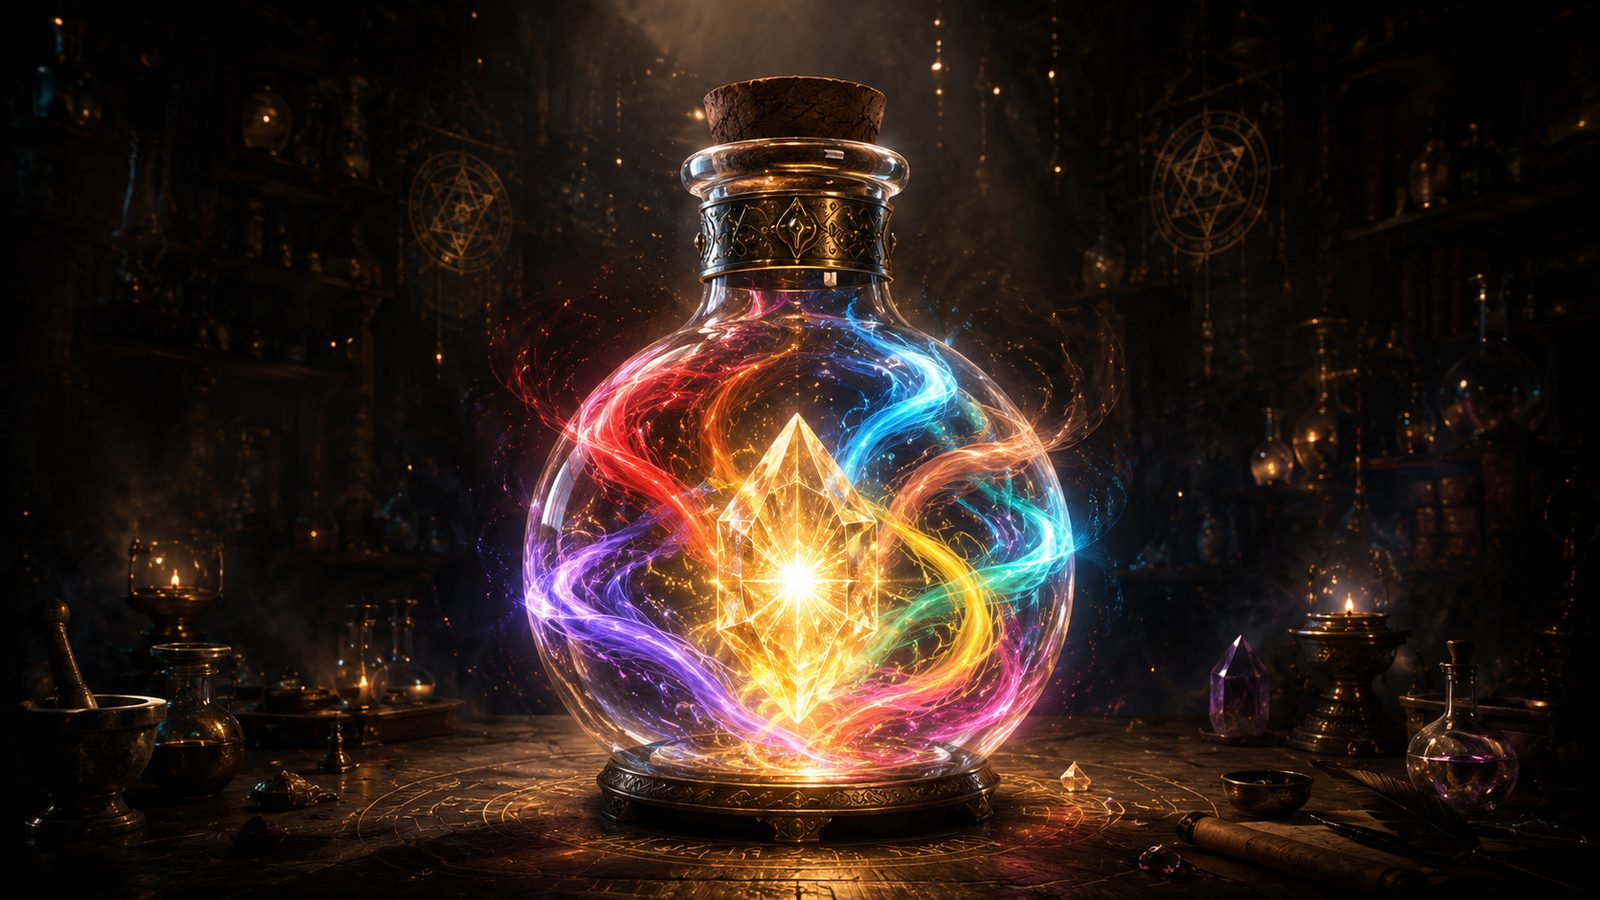
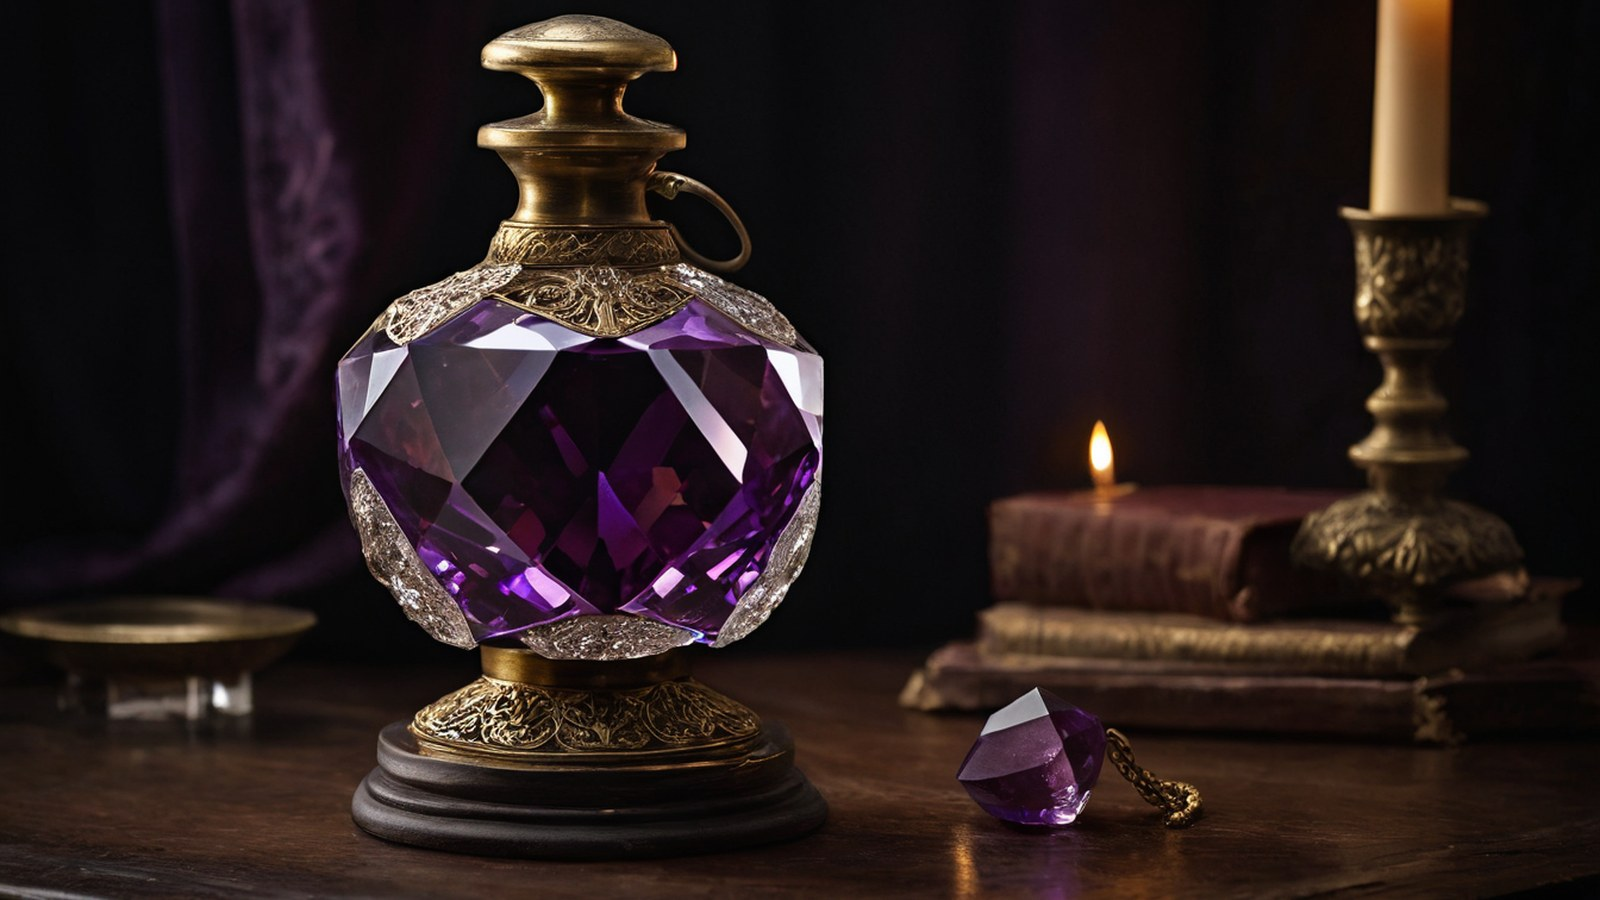
feat(hero)+fix(slop): on-brand hero render + D9/Hallmark de-slop pass
Hero: replace the generic rainbow-potion (AI-slop, off-palette, was the
og:image) with a locally-rendered on-brand hero — faceted amethyst
philosopher's-stone in an aged-brass alchemist flask, gold+violet on dark lab,
no rainbow. RealVisXL V5 on the RX 9070 XT; matches the icon direction + app menu.

De-slop fixes (from /site-review D9 + a hallmark-rubric audit):
- eyebrow-on-every-section tic → keep 2 (about, promise), drop 4
- bias the features section left (break "centred everything")
- vary section vertical rhythm (#features roomier, #elements tighter)
- language-switcher tap targets → 24px min (WCAG 2.5.8 AA; was auto/~sub-24)
- straight → curly apostrophes in EN copy (7)

diff --git a/index.html b/index.html
@@ -59,22 +59,21 @@
     <div class="inner center">
       <p class="eyebrow">What is Elixa</p>
       <h2 class="title">Sort the elements. Find some quiet.</h2>
-      <p class="lead prose" style="margin:0 auto">Tap a tube, tap another, and the top ores pour across — stacking colour on colour until every tube holds one clean element. No timers. No lives. No energy that runs out. Just you, the ores, and as many unhurried minutes as you'd like.</p>
+      <p class="lead prose" style="margin:0 auto">Tap a tube, tap another, and the top ores pour across — stacking colour on colour until every tube holds one clean element. No timers. No lives. No energy that runs out. Just you, the ores, and as many unhurried minutes as you’d like.</p>
     </div>
   </section>
 
   <section class="section" id="features" style="background:var(--bg1)">
     <div class="inner">
-      <p class="eyebrow center">What makes it different</p>
-      <h2 class="title center">Built for calm, not for clicks</h2>
+      <h2 class="title">Built for calm, not for clicks</h2>
       <div class="grid grid-3" style="margin-top:var(--s7)">
         <div class="card">
           <h3>The theme is the logic</h3>
-          <p>Alchemy isn't a coat of paint. The seven elements are the colours you sort, transmutation is a real move, and the four chapters are your arc — the story and the rules are the same thing.</p>
+          <p>Alchemy isn’t a coat of paint. The seven elements are the colours you sort, transmutation is a real move, and the four chapters are your arc — the story and the rules are the same thing.</p>
         </div>
         <div class="card">
-          <h3>Transmute, don't just sort</h3>
-          <p>A prima-materia wildcard ore pours into any tube, then permanently <strong>transmutes</strong> into a true element the moment it settles. A move the sort genre simply doesn't have.</p>
+          <h3>Transmute, don’t just sort</h3>
+          <p>A prima-materia wildcard ore pours into any tube, then permanently <strong>transmutes</strong> into a true element the moment it settles. A move the sort genre simply doesn’t have.</p>
         </div>
         <div class="card">
           <h3>Made to be felt</h3>
@@ -90,7 +89,7 @@
         </div>
         <div class="card">
           <h3>Mastery, not just completion</h3>
-          <p>Stars are graded against the solver's own optimal solution — and clearing a board with no hints or undo earns a <strong>Flawless</strong>. Every level is solver-verified, so the challenge is real, never random.</p>
+          <p>Stars are graded against the solver’s own optimal solution — and clearing a board with no hints or undo earns a <strong>Flawless</strong>. Every level is solver-verified, so the challenge is real, never random.</p>
         </div>
       </div>
     </div>
@@ -98,7 +97,6 @@
 
   <section class="section" id="elements">
     <div class="inner">
-      <p class="eyebrow center">The seven elements</p>
       <h2 class="title center">Seven ores, each with its own glow</h2>
       <div class="elements" style="margin-top:var(--s7)">
         <div class="el" style="--c:var(--fire)"><img src="/assets/img/ore/fire.png" alt="" width="72" height="72" loading="lazy"><div class="name">Fire</div></div>
@@ -114,7 +112,6 @@
 
   <section class="section" id="gallery">
     <div class="inner center">
-      <p class="eyebrow">A look inside the lab</p>
       <h2 class="title">See it in play</h2>
       <div class="gallery" style="margin-top:var(--s7)">
         <figure class="phone" style="margin:0"><img src="/assets/img/shots/menu.jpg" alt="Enter the lab — pour, sort, transmute" width="646" height="1400" loading="lazy"><figcaption class="cap">Enter the lab — pour, sort, transmute</figcaption></figure>
@@ -128,7 +125,7 @@
     <div class="inner center">
       <p class="eyebrow">Our promise</p>
       <h2 class="title">Pay once. Play all you want.</h2>
-      <p class="lead prose" style="margin:0 auto">One fair unlock opens the whole collection and removes the ads — buy it once and it's yours. No interruptions, no waiting, no catch.</p>
+      <p class="lead prose" style="margin:0 auto">One fair unlock opens the whole collection and removes the ads — buy it once and it’s yours. No interruptions, no waiting, no catch.</p>
       <ul class="promise-list prose" style="margin-left:auto;margin-right:auto">
         <li>No ads in the middle of a puzzle</li>
         <li>No subscription</li>
@@ -140,7 +137,6 @@
 
   <section class="section" id="coming-soon">
     <div class="inner center">
-      <p class="eyebrow">Upcoming</p>
       <h2 class="title">In the lab now — coming soon</h2>
       <p class="lead prose" style="margin:0 auto">Elixa is in closed testing, being tuned toward a release on the App Store and Google Play. Want an early look or to help test? <a href="mailto:mateusl.amaral@gmail.com?subject=Elixa%20beta">Get in touch</a>.</p>
       <div style="margin-top:var(--s7)">

diff --git a/es/index.html b/es/index.html
@@ -65,8 +65,7 @@
 
   <section class="section" id="features" style="background:var(--bg1)">
     <div class="inner">
-      <p class="eyebrow center">Qué lo hace diferente</p>
-      <h2 class="title center">Hecho para la calma, no para el clic</h2>
+      <h2 class="title">Hecho para la calma, no para el clic</h2>
       <div class="grid grid-3" style="margin-top:var(--s7)">
         <div class="card">
           <h3>El tema es la lógica</h3>
@@ -98,7 +97,6 @@
 
   <section class="section" id="elements">
     <div class="inner">
-      <p class="eyebrow center">Los siete elementos</p>
       <h2 class="title center">Siete minerales, cada uno con su propio brillo</h2>
       <div class="elements" style="margin-top:var(--s7)">
         <div class="el" style="--c:var(--fire)"><img src="/assets/img/ore/fire.png" alt="" width="72" height="72" loading="lazy"><div class="name">Fuego</div></div>
@@ -114,7 +112,6 @@
 
   <section class="section" id="gallery">
     <div class="inner center">
-      <p class="eyebrow">Un vistazo al laboratorio</p>
       <h2 class="title">Míralo en acción</h2>
       <div class="gallery" style="margin-top:var(--s7)">
         <figure class="phone" style="margin:0"><img src="/assets/img/shots/menu.jpg" alt="Entra al laboratorio — vierte, ordena, transmuta" width="646" height="1400" loading="lazy"><figcaption class="cap">Entra al laboratorio — vierte, ordena, transmuta</figcaption></figure>
@@ -140,7 +137,6 @@
 
   <section class="section" id="coming-soon">
     <div class="inner center">
-      <p class="eyebrow">Próximamente</p>
       <h2 class="title">En el laboratorio ahora — muy pronto</h2>
       <p class="lead prose" style="margin:0 auto">Elixa está en pruebas cerradas, ajustándose hacia un lanzamiento en la App Store y Google Play. ¿Quieres una vista previa o ayudar a probarlo? <a href="mailto:mateusl.amaral@gmail.com?subject=Elixa%20beta">Ponte en contacto</a>.</p>
       <div style="margin-top:var(--s7)">

diff --git a/pt/index.html b/pt/index.html
@@ -65,8 +65,7 @@
 
   <section class="section" id="features" style="background:var(--bg1)">
     <div class="inner">
-      <p class="eyebrow center">O que o torna diferente</p>
-      <h2 class="title center">Feito para a calma, não para o clique</h2>
+      <h2 class="title">Feito para a calma, não para o clique</h2>
       <div class="grid grid-3" style="margin-top:var(--s7)">
         <div class="card">
           <h3>O tema é a lógica</h3>
@@ -98,7 +97,6 @@
 
   <section class="section" id="elements">
     <div class="inner">
-      <p class="eyebrow center">Os sete elementos</p>
       <h2 class="title center">Sete minérios, cada um com seu próprio brilho</h2>
       <div class="elements" style="margin-top:var(--s7)">
         <div class="el" style="--c:var(--fire)"><img src="/assets/img/ore/fire.png" alt="" width="72" height="72" loading="lazy"><div class="name">Fogo</div></div>
@@ -114,7 +112,6 @@
 
   <section class="section" id="gallery">
     <div class="inner center">
-      <p class="eyebrow">Uma espiada no laboratório</p>
       <h2 class="title">Veja em ação</h2>
       <div class="gallery" style="margin-top:var(--s7)">
         <figure class="phone" style="margin:0"><img src="/assets/img/shots/menu.jpg" alt="Entre no laboratório — despeje, ordene, transmute" width="646" height="1400" loading="lazy"><figcaption class="cap">Entre no laboratório — despeje, ordene, transmute</figcaption></figure>
@@ -140,7 +137,6 @@
 
   <section class="section" id="coming-soon">
     <div class="inner center">
-      <p class="eyebrow">Em desenvolvimento</p>
       <h2 class="title">No laboratório agora — em breve</h2>
       <p class="lead prose" style="margin:0 auto">O Elixa está em teste fechado, sendo ajustado rumo a um lançamento na App Store e no Google Play. Quer uma prévia ou ajudar a testar? <a href="mailto:mateusl.amaral@gmail.com?subject=Elixa%20beta">Entre em contato</a>.</p>
       <div style="margin-top:var(--s7)">

diff --git a/assets/css/styles.css b/assets/css/styles.css
@@ -50,6 +50,9 @@ a:focus-visible, .btn-gold:focus-visible, button:focus-visible, [tabindex]:focus
 
 /* ---- layout ---- */
 .section { position: relative; padding: clamp(72px,10vw,128px) 0; }
+/* vary vertical rhythm — sections shouldn't all breathe identically */
+#features { padding-block: clamp(88px,11vw,140px); }
+#elements { padding-block: clamp(56px,8vw,96px); }
 .inner { max-width: 1200px; margin: 0 auto; padding-inline: clamp(24px,5vw,64px); }
 .prose { max-width: 680px; }
 .center { text-align: center; }
@@ -220,6 +223,7 @@ h3 { font-family: Cinzel, serif; font-weight: 600; color: var(--pale);
 /* language switcher */
 .lang-switch { display:flex; gap:2px; align-items:center; font-size:13px; letter-spacing:.06em;
   border:1px solid var(--line); border-radius:10px; overflow:hidden; }
-.lang-switch a { padding:6px 10px; color:var(--mut); min-height:auto !important; }
+.lang-switch a { padding:9px 11px; color:var(--mut); min-height:24px !important;
+  display:inline-flex; align-items:center; }
 .lang-switch a[aria-current="page"] { background:rgba(242,208,107,.14); color:var(--gold); }
 .lang-switch a:hover { color:var(--gold); }

diff --git a/privacy/index.html b/privacy/index.html
@@ -4,7 +4,7 @@
   <meta charset="utf-8">
   <meta name="viewport" content="width=device-width, initial-scale=1">
   <title>Privacy Policy — Elixa</title>
-  <meta name="description" content="Elixa's privacy policy: no accounts, no ads, no personal data — only anonymous analytics.">
+  <meta name="description" content="Elixa’s privacy policy: no accounts, no ads, no personal data — only anonymous analytics.">
   <link rel="canonical" href="https://elixagame.com/privacy/">
   <meta name="theme-color" content="#0b0914">
   <link rel="alternate" hreflang="en" href="https://elixagame.com/privacy/">

diff --git a/_src/build_site.py b/_src/build_site.py
@@ -140,8 +140,7 @@ def build_home(code):
 
   <section class="section" id="features" style="background:var(--bg1)">
     <div class="inner">
-      <p class="eyebrow center">{H["feat_eyebrow"]}</p>
-      <h2 class="title center">{H["feat_h2"]}</h2>
+      <h2 class="title">{H["feat_h2"]}</h2>
       <div class="grid grid-3" style="margin-top:var(--s7)">
 {feats}
       </div>
@@ -150,7 +149,6 @@ def build_home(code):
 
   <section class="section" id="elements">
     <div class="inner">
-      <p class="eyebrow center">{H["el_eyebrow"]}</p>
       <h2 class="title center">{H["el_h2"]}</h2>
       <div class="elements" style="margin-top:var(--s7)">
 {els}
@@ -160,7 +158,6 @@ def build_home(code):
 
   <section class="section" id="gallery">
     <div class="inner center">
-      <p class="eyebrow">{H["gal_eyebrow"]}</p>
       <h2 class="title">{H["gal_h2"]}</h2>
       <div class="gallery" style="margin-top:var(--s7)">
         <figure class="phone" style="margin:0"><img src="/assets/img/shots/menu.jpg" alt="{H["gal_cap3"]}" width="646" height="1400" loading="lazy"><figcaption class="cap">{H["gal_cap3"]}</figcaption></figure>
@@ -183,7 +180,6 @@ def build_home(code):
 
   <section class="section" id="coming-soon">
     <div class="inner center">
-      <p class="eyebrow">{H["coming_eyebrow"]}</p>
       <h2 class="title">{H["coming_h2"]}</h2>
       <p class="lead prose" style="margin:0 auto">{H["coming_lead_pre"]}<a href="mailto:mateusl.amaral@gmail.com?subject=Elixa%20beta">{H["coming_lead_link"]}</a>{H["coming_lead_post"]}</p>
       <div style="margin-top:var(--s7)">
